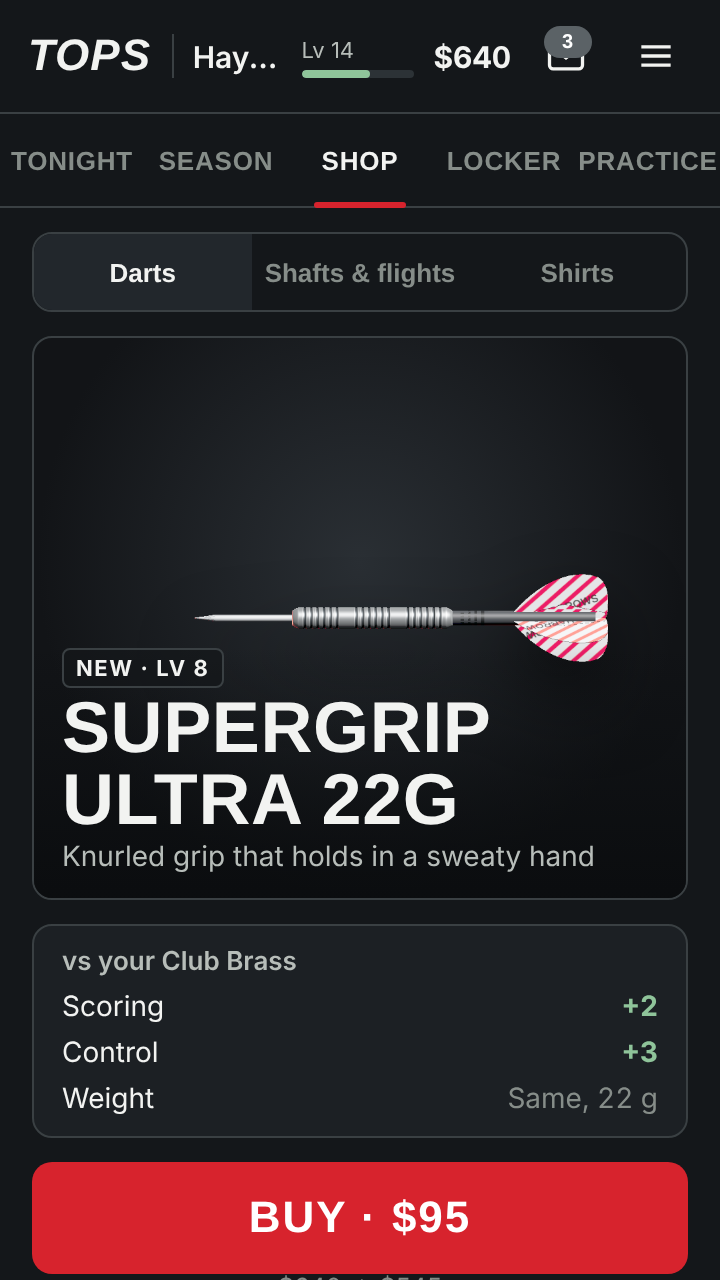
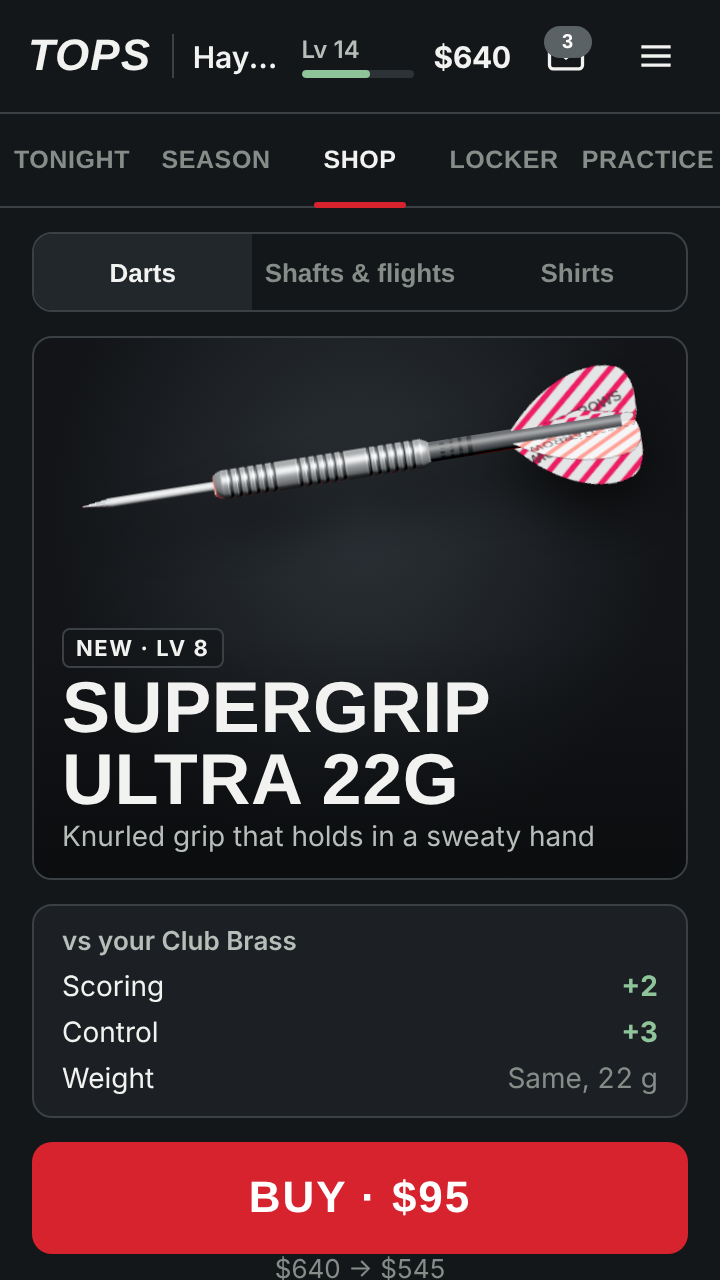
EXP-UX round 3: ChatGPT round-2 fixes (result tab rail hidden, result lockup, shop product crop + 4-up thumbs, cards hero 140 + chip fade, type floors)
Claude-Session: https://claude.ai/code/session_01WmQEKYuzjKWgLqY2q8YZP3

diff --git a/wip/ux/proto/index.html b/wip/ux/proto/index.html
@@ -1,0 +1,316 @@
+<title>TOPS Career Screens</title>
+<meta name="claude:viewport-fit-sides" content="cover">
+<link rel="preconnect" href="https://fonts.googleapis.com">
+<link rel="stylesheet" href="https://fonts.googleapis.com/css2?family=Barlow+Condensed:wght@600;700;800&family=Inter:wght@400;500;600;700&display=swap">
+<style>
+/* Layout: one phone (390 wide, 844 tall) centred on a dark desk; tier-2 calm frame: flat graphite panels, hairline borders,
+   real game renders inside panel frames, red only on the one primary button and the active main tab. Single dark look by design. */
+:root{
+  --desk:#0b0d0f; --bg:#14171a; --panel:#1c2024; --panel2:#22272c; --line:#3a4043; --ink:#f2f3f1; --ink2:#b7bdb9; --ink3:#868d89;
+  --red:#d7232d; --red2:#b81c25; --good:#8fc49a; --badge:#5b6266;
+  --display:"Barlow Condensed","Arial Narrow",Impact,sans-serif; --body:Inter,system-ui,-apple-system,"Segoe UI",Roboto,sans-serif;
+  color-scheme:dark;
+}
+html,body{height:100%}
+[hidden]{display:none!important}
+body{background:var(--desk);color:var(--ink);font-family:var(--body);font-size:14px;margin:0;
+  padding-left:max(16px,env(safe-area-inset-left,0px));padding-right:max(16px,env(safe-area-inset-right,0px));padding-block:20px;
+  display:flex;flex-direction:column;align-items:center;gap:14px}
+.note{max-width:390px;width:100%;color:var(--ink3);font-size:12px;line-height:1.5}
+.note b{color:var(--ink2);font-weight:600}
+.phone{position:relative;width:390px;max-width:100%;height:844px;background:var(--bg);border:1px solid #2a2f33;border-radius:28px;overflow:hidden;display:flex;flex-direction:column}
+@media (max-width:430px){body{padding:0}.phone{width:100%;height:100%;border:0;border-radius:0}.note{display:none}}
+/* header 56 */
+.hd{height:56px;flex:0 0 56px;display:flex;align-items:center;gap:10px;padding:0 14px;border-bottom:1px solid var(--line)}
+.wm{font-family:var(--display);font-weight:800;font-style:italic;font-size:22px;letter-spacing:.5px}
+.sep{width:1px;height:22px;background:var(--line)}
+.nm{font-weight:600;font-size:15px;white-space:nowrap;overflow:hidden;text-overflow:ellipsis;min-width:0}
+.lv{display:flex;flex-direction:column;gap:3px;flex:1;min-width:56px;cursor:pointer}
+.lv small{font-size:12px;font-weight:600;color:var(--ink2)}
+.bar{height:4px;background:#2c3236;border-radius:2px;overflow:hidden}.bar i{display:block;height:100%;background:var(--good);border-radius:2px}
+.bank{font-weight:700;font-size:15px;font-variant-numeric:tabular-nums}
+.icon{position:relative;width:44px;height:44px;display:grid;place-items:center;background:none;border:0;color:var(--ink);cursor:pointer;padding:0}
+.icon svg{width:22px;height:22px}
+.icon .b{position:absolute;top:7px;right:5px;min-width:16px;height:16px;border-radius:8px;background:var(--badge);color:#fff;font-size:10px;font-weight:700;display:grid;place-items:center;padding:0 4px}
+/* tabs 46 */
+.tabs{height:46px;flex:0 0 46px;display:flex;border-bottom:1px solid var(--line)}
+.tabs button{flex:1;background:none;border:0;color:var(--ink3);font-family:var(--display);font-weight:700;font-size:12.5px;letter-spacing:.3px;text-transform:uppercase;cursor:pointer;position:relative;padding:0;min-width:0}
+.tabs button[aria-selected="true"]{color:var(--ink)}
+.tabs button[aria-selected="true"]::after{content:"";position:absolute;left:18%;right:18%;bottom:-1px;height:3px;background:var(--red);border-radius:2px}
+.sub{height:38px;flex:0 0 38px;display:flex;margin:10px 16px 0;border:1px solid var(--line);border-radius:10px;overflow:hidden}
+.sub button{flex:1;background:none;border:0;color:var(--ink3);font-size:13px;font-weight:600;cursor:pointer}
+.sub button[aria-selected="true"]{background:var(--panel2);color:var(--ink)}
+/* body */
+.scr{flex:1;overflow-y:auto;overflow-x:hidden;display:flex;flex-direction:column;gap:12px;padding:12px 16px 24px}
+.scr[hidden]{display:none}
+.scr>*{flex-shrink:0}
+.panel{background:var(--panel);border:1px solid var(--line);border-radius:10px}
+.hero{position:relative;border-radius:10px;overflow:hidden;border:1px solid var(--line);background:#0e1012;flex:0 0 auto}
+.hero .img{position:absolute;inset:0;background-size:cover;background-position:center}
+.hero .shade{position:absolute;inset:0;background:linear-gradient(180deg,rgba(10,12,14,0) 35%,rgba(10,12,14,.92) 100%)}
+.hero .txt{position:absolute;left:14px;right:14px;bottom:12px;display:flex;flex-direction:column;gap:2px}
+.kick{font-size:11.5px;font-weight:600;letter-spacing:1px;text-transform:uppercase;color:var(--ink2)}
+.h1{font-family:var(--display);font-weight:800;font-size:36px;line-height:1;letter-spacing:.3px;text-transform:uppercase;text-wrap:balance}
+.lead{font-size:14px;color:var(--ink2)}
+.primary{height:56px;flex:0 0 56px;width:100%;border:0;border-radius:10px;background:var(--red);color:#fff;cursor:pointer;display:flex;flex-direction:column;align-items:center;justify-content:center;gap:1px}
+.primary:hover{background:var(--red2)}
+.primary b{font-family:var(--display);font-weight:800;font-size:22px;letter-spacing:1px;text-transform:uppercase;line-height:1}
+.primary small{font-size:12px;opacity:.9}
+.line{font-size:15px;font-weight:500;text-align:center;font-variant-numeric:tabular-nums}
+.meta{font-size:13px;color:var(--ink3);text-align:center;background:none;border:0;cursor:pointer;min-height:32px}
+.row2{display:grid;grid-template-columns:1fr 1fr;gap:10px}
+.tile{padding:12px;display:flex;flex-direction:column;gap:4px;min-height:96px;cursor:pointer;text-align:left;color:var(--ink);font:inherit}
+.tile .t{font-family:var(--display);font-weight:700;font-size:17px;text-transform:uppercase;letter-spacing:.4px}
+.tile .s{font-size:13px;color:var(--ink2)}
+.tile img{width:105px;height:30px;object-fit:contain;object-position:left center;align-self:flex-start;margin-top:auto}
+button.panel{color:var(--ink);font:inherit}
+:focus-visible{outline:2px solid #fff;outline-offset:2px}
+.link{background:none;border:0;color:var(--ink);text-decoration:underline;text-underline-offset:3px;font-size:14px;cursor:pointer;min-height:36px}
+/* opponent portrait inside Tonight hero */
+.opp{position:absolute;right:0;bottom:0;height:88%;aspect-ratio:4/5;background-size:contain;background-repeat:no-repeat;background-position:right bottom;max-width:100%}
+/* shop */
+.prod{display:grid;place-items:start center;padding-top:30px;background:radial-gradient(ellipse at 50% 32%,#2c3237 0%,#121417 68%)}
+.prod img{width:min(330px,88%);max-width:100%;transform:rotate(-9deg);filter:drop-shadow(0 16px 14px rgba(0,0,0,.65))}
+.badge{display:inline-block;font-size:11px;font-weight:700;letter-spacing:.8px;color:var(--ink);border:1px solid var(--line);border-radius:4px;padding:2px 6px;align-self:flex-start;background:rgba(20,23,26,.7)}
+.cmp{padding:10px 14px;display:flex;flex-direction:column;gap:6px}
+.cmp h3{margin:0;font-size:13px;color:var(--ink2);font-weight:600}
+.cmp div{display:flex;justify-content:space-between;font-size:14px;font-variant-numeric:tabular-nums}
+.up{color:var(--good);font-weight:700}.neutral{color:var(--ink3)}
+.strip{display:flex;align-items:center;gap:6px}
+.strip .arr{width:32px;height:78px;flex:0 0 32px}
+.thumbs{display:flex;gap:8px;flex:1;min-width:0;overflow-x:auto;scroll-snap-type:x mandatory;scrollbar-width:none}
+.thumbs::-webkit-scrollbar{display:none}
+.th{flex:0 0 calc((100% - 24px)/4);height:78px;scroll-snap-align:start;border:1px solid var(--line);border-radius:8px;background:var(--panel);display:grid;place-items:center;position:relative;cursor:pointer;padding:0;min-width:0}
+.th img{width:88%;height:44%;object-fit:contain;margin-bottom:16px}
+.th[aria-pressed="true"]{border-color:#fff}
+.th small{position:absolute;bottom:5px;left:0;right:0;font-size:12px;color:var(--ink2);text-align:center}
+.th.lock img{opacity:.35}
+.lockline{font-size:14px;color:var(--ink2);text-align:center;display:flex;flex-direction:column;gap:2px;align-items:center;min-height:56px;justify-content:center}
+.lockline b{color:var(--ink);font-weight:600}
+/* locker */
+.me{display:flex;align-items:flex-end}
+.me .fig{position:absolute;right:6px;bottom:0;height:100%;aspect-ratio:4/5;background-size:contain;background-repeat:no-repeat;background-position:right bottom}
+.setbar{padding:10px 12px;display:flex;align-items:center;gap:10px;font-size:13px}
+.setbar .bar{flex:1}
+.packs{padding:8px 8px 8px 14px;display:flex;align-items:center;gap:10px}
+.packs .t{font-family:var(--display);font-weight:800;font-size:20px;letter-spacing:.4px;flex:1}
+.packs .primary{width:112px;flex:0 0 112px;height:48px}
+.chips{display:flex;gap:8px;overflow-x:auto;padding-bottom:2px;scrollbar-width:none;margin-right:-16px;padding-right:24px;-webkit-mask-image:linear-gradient(90deg,#000 calc(100% - 40px),transparent);mask-image:linear-gradient(90deg,#000 calc(100% - 40px),transparent)}
+.chips::-webkit-scrollbar{display:none}
+.chips button{flex:0 0 auto;height:34px;padding:0 12px;border-radius:17px;border:1px solid var(--line);background:none;color:var(--ink2);font-size:13px;cursor:pointer}
+.chips button[aria-pressed="true"]{background:var(--panel2);color:var(--ink);border-color:#596066}
+.grid{display:grid;grid-template-columns:repeat(3,1fr);gap:8px}
+.card{aspect-ratio:2/3;border-radius:8px;overflow:hidden;border:1px solid var(--line);background:#101214;position:relative;max-width:100%}
+.card img{width:100%;height:100%;object-fit:cover;display:block}
+.card.out{display:grid;place-items:center;color:#4a5155;font-family:var(--display);font-weight:700;font-size:18px}
+.card .n{position:absolute;left:0;right:0;bottom:0;height:24px;line-height:24px;padding:0 8px;font-size:11px;font-weight:600;white-space:nowrap;overflow:hidden;text-overflow:ellipsis;background:rgba(12,14,16,.86);border-top:1px solid rgba(255,255,255,.06)}
+/* result */
+.res .vs{position:absolute;inset:0;display:grid;grid-template-columns:1fr auto 1fr;align-items:end}
+.res .p{height:88%;background-size:contain;background-repeat:no-repeat;background-position:bottom}
+.res .score{align-self:stretch;display:flex;flex-direction:column;justify-content:center;align-items:center;gap:4px;width:116px;text-align:center;background:radial-gradient(ellipse at 50% 50%,rgba(8,10,12,.85) 0%,rgba(8,10,12,.55) 55%,rgba(8,10,12,0) 80%);position:relative;z-index:1}
+.res .score b{font-family:var(--display);font-weight:800;font-size:54px;line-height:.9;display:block;font-variant-numeric:tabular-nums}
+.res .score small{font-size:18px;font-weight:600;letter-spacing:2px;color:var(--ink);text-transform:uppercase}
+.rw{display:flex;flex-direction:column;gap:8px}
+.rw h3{margin:2px 0 0;font-size:11.5px;letter-spacing:1px;color:var(--ink3);text-transform:uppercase;font-weight:600}
+.two{display:grid;grid-template-columns:1fr 1.6fr;gap:0}
+.two>div{padding:10px 14px;display:flex;flex-direction:column;gap:6px;justify-content:center;min-height:52px}
+.two>div+div{border-left:1px solid var(--line)}
+.cash{font-family:var(--display);font-weight:800;font-size:24px;color:var(--good)}
+.xp{display:flex;justify-content:space-between;font-size:13px;font-weight:600}
+.r{min-height:48px;padding:0 14px;display:flex;align-items:center;gap:10px;font-size:14px}
+.r img{height:22px}
+.r .sp{flex:1}
+.ghost{height:34px;padding:0 14px;border-radius:8px;border:1px solid #6b7276;background:none;color:var(--ink);font-weight:600;cursor:pointer}
+.pin{position:sticky;bottom:0;background:linear-gradient(transparent,var(--bg) 30%);padding-top:12px;margin-top:auto}
+/* toast */
+.toast{position:absolute;left:16px;right:16px;bottom:24px;background:var(--panel2);border:1px solid var(--line);border-radius:10px;padding:12px 14px;font-size:13px;opacity:0;transform:translateY(8px);transition:.2s;pointer-events:none}
+.toast.on{opacity:1;transform:none}
+@media (prefers-reduced-motion:reduce){.toast{transition:none}}
+.legend{max-width:390px;width:100%;display:flex;flex-wrap:wrap;gap:6px}
+.legend button{height:32px;padding:0 12px;border-radius:16px;border:1px solid #2a2f33;background:#15181b;color:var(--ink2);font-size:12px;cursor:pointer}
+@media (max-width:430px){.legend{display:none}}
+</style>
+
+<p class="note"><b>TOPS · career screens, round 2.</b> Clickable at real phone size (390 × 844). Every picture is rendered by the game itself: venue stills from our 3D rooms, players from our rigs, darts from the dart renderer. Tap the tabs, Walk on, Buy, Open and Continue.</p>
+<div class="legend" aria-label="Prototype states">
+  <button type="button" data-state="first">First match</button>
+  <button type="button" data-state="broke">Can't afford entry</button>
+  <button type="button" data-state="normal">Normal</button>
+</div>
+
+<div class="phone" id="phone">
+  <header class="hd">
+    <span class="wm">TOPS</span><span class="sep"></span>
+    <span class="nm">Hayden</span>
+    <div class="lv" id="lvBtn" role="button" tabindex="0" aria-label="Level 14, open Locker"><small id="lvTxt">Lv 14</small><div class="bar"><i id="lvBar" style="width:62%"></i></div></div>
+    <span class="bank" id="bank">$640</span>
+    <button class="icon" type="button" id="msgBtn" aria-label="3 new messages"><svg viewBox="0 0 24 24" fill="none" stroke="currentColor" stroke-width="1.8"><rect x="3" y="5" width="18" height="14" rx="2"/><path d="m3.5 6.5 8.5 6.5 8.5-6.5"/></svg><span class="b" id="msgN">3</span></button>
+    <button class="icon" type="button" aria-label="Menu"><svg viewBox="0 0 24 24" fill="none" stroke="currentColor" stroke-width="1.8"><path d="M4 7h16M4 12h16M4 17h16"/></svg></button>
+  </header>
+  <nav class="tabs" id="tabs" role="tablist">
+    <button role="tab" data-tab="tonight" aria-selected="true">Tonight</button>
+    <button role="tab" data-tab="season" aria-selected="false">Season</button>
+    <button role="tab" data-tab="shop" aria-selected="false">Shop</button>
+    <button role="tab" data-tab="locker" aria-selected="false">Locker</button>
+    <button role="tab" data-tab="practice" aria-selected="false">Practice</button>
+  </nav>
+
+  <!-- TONIGHT -->
+  <section class="scr" data-scr="tonight">
+    <div class="hero" style="height:265px">
+      <div class="img" style="background-image:url(img/venue_club.jpg)"></div>
+      <div class="opp" style="background-image:url(img/mal_hero.png)"></div>
+      <div class="shade"></div>
+      <div class="txt"><span class="kick" id="tKick">Club singles · Week 5 of 8</span><span class="h1">vs Big Mal</span><span class="lead" id="tStake">Win: a place in the team</span></div>
+    </div>
+    <div class="line" id="tForm">You 47 (last 10) · Him 42 · Best of 3</div>
+    <button class="primary" type="button" id="walkOn"><b>Walk on</b><small id="tEntry">Entry $40</small></button>
+    <button class="meta" type="button" data-go="season" id="tSeason">Week 5 of 8 · 3rd · 2 pts off 2nd ›</button>
+    <div class="row2" id="tTiles">
+      <button class="panel tile" type="button" id="moneyTile"><span class="t">Money match</span><span class="s">Back room · $100</span></button>
+      <button class="panel tile" type="button" data-go="shop"><span class="t">Next dart</span><span class="s">Razor Edge · Lv 15</span><img src="img/dart_razor_t.png" alt=""></button>
+    </div>
+    <div class="meta" id="tGoal" style="margin-top:auto">Goal: average 61+ → $40</div>
+  </section>
+
+  <!-- SEASON (out of this round's scope: a stub so the tab answers) -->
+  <section class="scr" data-scr="season" hidden>
+    <div class="panel" style="padding:16px;display:flex;flex-direction:column;gap:8px">
+      <span class="kick">Season · not in this round</span>
+      <span class="h1" style="font-size:28px">3rd · 2 pts off 2nd</span>
+      <span class="lead">Top two go up. The table, the road to the Palace and the trophy cabinet live here in round 3.</span>
+    </div>
+  </section>
+
+  <!-- SHOP -->
+  <section class="scr" data-scr="shop" hidden>
+    <div class="sub" role="tablist" style="margin:0"><button aria-selected="true">Darts</button><button aria-selected="false">Shafts &amp; flights</button><button aria-selected="false">Shirts</button></div>
+    <div class="hero prod" style="height:240px">
+      <img id="sImg" src="img/dart_razor_t.png" alt="Razor Edge dart">
+      <div class="shade" style="background:linear-gradient(180deg,transparent 55%,rgba(10,12,14,.9))"></div>
+      <div class="txt"><span class="badge" id="sBadge">NEW · LV 15</span><span class="h1" id="sName">Razor Edge 24g</span><span class="lead" id="sLine">Sharp razor grip, 85% tungsten</span></div>
+    </div>
+    <div class="panel cmp" id="sCmp"></div>
+    <div id="sAct"></div>
+    <div class="strip">
+      <button class="icon arr" type="button" id="sPrev" aria-label="Previous dart"><svg viewBox="0 0 24 24" fill="none" stroke="currentColor" stroke-width="2"><path d="m15 5-7 7 7 7"/></svg></button>
+      <div class="thumbs" id="sThumbs"></div>
+      <button class="icon arr" type="button" id="sNext" aria-label="Next dart"><svg viewBox="0 0 24 24" fill="none" stroke="currentColor" stroke-width="2"><path d="m9 5 7 7-7 7"/></svg></button>
+    </div>
+  </section>
+
+  <!-- LOCKER / CARDS -->
+  <section class="scr" data-scr="locker" hidden>
+    <div class="sub" role="tablist" style="margin:0"><button aria-selected="false">Loadout</button><button aria-selected="true">Cards</button><button aria-selected="false">Stats</button><button aria-selected="false">Trophies</button></div>
+    <div class="hero me" style="height:140px">
+      <div class="img" style="background-image:url(img/venue_regional.jpg);opacity:.45"></div>
+      <div class="fig" style="background-image:url(img/me_hero.png)"></div>
+      <div class="shade" style="background:linear-gradient(90deg,rgba(10,12,14,.85) 0%,rgba(10,12,14,.2) 70%)"></div>
+      <div class="txt" style="right:45%"><span class="h1" style="font-size:30px">Hayden</span><span class="lead">The Fill-in · Lv 14</span></div>
+    </div>
+    <div class="panel packs" id="packRow"><span class="t" id="packTxt">3 packs waiting</span><button class="primary" type="button" id="openPack"><b>Open</b></button></div>
+    <div class="panel setbar"><span>Closest set: Kiwi Pub Life</span><div class="bar"><i style="width:78%"></i></div><span style="font-variant-numeric:tabular-nums">7/9</span></div>
+    <div class="chips" role="group" aria-label="Filter cards"><button aria-pressed="true">All · 37/142</button><button>Regulars</button><button>Venues</button><button>Moments</button><button>Disasters</button><button>Kit</button><button>House rules</button></div>
+    <div class="grid" id="grid"></div>
+  </section>
+
+  <!-- PRACTICE (stub) -->
+  <section class="scr" data-scr="practice" hidden>
+    <div class="panel" style="padding:16px;display:flex;flex-direction:column;gap:8px">
+      <span class="kick">Practice · not in this round</span>
+      <span class="h1" style="font-size:28px">Round the clock doubles</span>
+      <span class="lead">Your doubles are 14 %. Free to play, a little XP every session (capped).</span>
+    </div>
+  </section>
+
+  <!-- RESULT (no tab rail) -->
+  <section class="scr res" data-scr="result" hidden>
+    <div class="hero" style="height:250px">
+      <div class="img" style="background-image:url(img/venue_club.jpg);opacity:.38"></div>
+      <div class="vs"><div class="p" style="background-image:url(img/me_hero.png)"></div><div class="score"><small id="rWho">Won</small><b id="rScore">2–1</b></div><div class="p" id="rThem" style="background-image:url(img/mal_hero.png);transform:scaleX(-1);filter:brightness(.5) saturate(.6)"></div></div>
+    </div>
+    <div class="line" id="rLine">You 51 · Him 44 · Checkout 38%</div>
+    <div class="rw">
+      <h3>Rewards</h3>
+      <div class="panel two"><div><span class="cash" id="rCash">+$55</span></div><div><div class="xp"><span id="rXp">+240 XP</span><span>Lv 14</span></div><div class="bar"><i style="width:78%"></i></div></div></div>
+      <div class="panel r"><img src="img/dart_razor_t.png" alt=""><span class="sp" id="rWant">Razor Edge: $45 to go</span></div>
+      <div class="panel r"><span class="sp">🂠 1 card pack</span><button class="ghost" type="button" id="rOpen">Open</button></div>
+      <div class="panel r"><span class="sp" id="rSeason">Now 2nd · top two go up</span></div>
+    </div>
+    <button class="meta" type="button" id="rMsgs">✉ 2 new · See all stats ›</button>
+    <div class="pin"><button class="primary" type="button" id="cont"><b>Continue</b></button></div>
+  </section>
+
+  <div class="toast" id="toast" role="status"></div>
+</div>
+
+<script>
+const $=s=>document.querySelector(s),$$=s=>[...document.querySelectorAll(s)];
+const st={bank:640,owned:{assassin:1},sel:'supergrip',packs:3,first:false,broke:false};
+const DARTS=[
+ {id:'assassin',n:'Club Brass 22g',line:'Your starter set. Brass, 22 g.',lv:1,price:0,img:'dart_assassin_t.png',sc:0,co:0,w:22},
+ {id:'supergrip',n:'Supergrip Ultra 22g',line:'Knurled grip that holds in a sweaty hand',lv:8,price:95,img:'dart_supergrip_t.png',sc:2,co:3,w:22,isNew:1},
+ {id:'razor',n:'Razor Edge 24g',line:'Sharp razor grip, 85% tungsten',lv:15,price:120,img:'dart_razor_t.png',sc:4,co:5,w:24},
+ {id:'vapor8',n:'Vapor8 21g',line:'Slim, light, quick through the air',lv:18,price:150,img:'dart_vapor8_t.png',sc:5,co:3,w:21},
+ {id:'zen',n:'Zen Jutsu 23g',line:'Ringed grip, settled flight',lv:25,price:170,img:'dart_zen_t.png',sc:7,co:7,w:23},
+ {id:'asp',n:'Asp G2 24g',line:'Front-weighted, built for treble 20',lv:33,price:270,img:'dart_asp_t.png',sc:9,co:8,w:24}];
+const LV=14;
+function toast(t){const e=$('#toast');e.textContent=t;e.classList.add('on');clearTimeout(toast.t);toast.t=setTimeout(()=>e.classList.remove('on'),1800);}
+function money(n){return '$'+n.toLocaleString();}
+function show(tab){
+  const res=tab==='result';$('#tabs').hidden=res;
+  $$('.scr').forEach(s=>s.hidden=s.dataset.scr!==tab);
+  $$('#tabs button').forEach(b=>b.setAttribute('aria-selected',b.dataset.tab===tab));
+  const s=$('.scr[data-scr="'+tab+'"]');if(s)s.scrollTop=0;
+}
+$$('#tabs button').forEach(b=>b.onclick=()=>show(b.dataset.tab));
+$$('[data-go]').forEach(b=>b.onclick=()=>show(b.dataset.go));
+$('#lvBtn').onclick=()=>show('locker');
+$('#msgBtn').onclick=()=>{$('#msgN').hidden=true;$('#msgBtn').setAttribute('aria-label','Messages');toast('Messages: Big Mal says see you on the oche. Club secretary: subs due Friday.');};
+$('#moneyTile').onclick=()=>toast('Money match: best of 1 in the back room, $100 to the winner.');
+// Tonight states
+function renderTonight(){
+  $('#tForm').textContent=st.first?'Your first match · Him 42 · Best of 3':'You 47 (last 10) · Him 42 · Best of 3';
+  $('#tKick').textContent=st.first?'Club singles · Week 1 of 8':'Club singles · Week 5 of 8';
+  $('#tStake').textContent=st.first?'Your first night at the Waitakere Club':'Win: a place in the team';
+  $('#tTiles').hidden=st.first;$('#tGoal').hidden=st.first;$('#tSeason').hidden=st.first;
+  $('#tEntry').textContent=st.broke?'Entry $40 · you have $25':'Entry $40';
+  $('#walkOn').disabled=false;
+  $('#bank').textContent=money(st.broke?25:st.bank);
+  $('#moneyTile .s').textContent=st.broke?'Back room · $100 · play this first':'Back room · $100';
+}
+$('#walkOn').onclick=()=>{if(st.broke){toast('Short of the $40 entry. Take the money match first, or the club covers it this once.');return;}show('result');};
+$$('.legend button').forEach(b=>b.onclick=()=>{st.first=b.dataset.state==='first';st.broke=b.dataset.state==='broke';renderTonight();show('tonight');toast(b.textContent+' state');});
+// Shop
+function renderShop(){
+  const d=DARTS.find(x=>x.id===st.sel),owned=!!st.owned[d.id],locked=d.lv>LV,mine=DARTS.find(x=>x.id==='assassin');
+  $('#sImg').src='img/'+d.img;$('#sImg').alt=d.n+' dart';$('#sName').textContent=d.n;$('#sLine').textContent=d.line;
+  $('#sBadge').textContent=owned?'OWNED':locked?'LOCKED · LV '+d.lv:(d.isNew?'NEW · LV '+d.lv:'LV '+d.lv);
+  const rows=owned&&d.id==='assassin'?[['Your current dart','','neutral']]:[['Scoring','+'+(d.sc-mine.sc),'up'],['Control','+'+(d.co-mine.co),'up']].concat(d.w===mine.w?[['Weight','Same, '+d.w+' g','neutral']]:[[d.w>mine.w?'Heavier':'Lighter',d.w+' g vs '+mine.w+' g','neutral']]);
+  $('#sCmp').innerHTML='<h3>vs your Club Brass</h3>'+rows.map(r=>`<div><span>${r[0]}</span><span class="${r[2]}">${r[1]}</span></div>`).join('');
+  let a='';
+  if(owned)a=`<button class="primary" type="button" id="sEquip"><b>Equip</b></button>`;
+  else if(locked)a=`<div class="lockline"><b>Unlocks at level ${d.lv} · ${money(d.price)}</b><span>You're level ${LV}</span><button class="link" type="button" data-go2="tonight">Play to reach it →</button></div>`;
+  else a=`<button class="primary" type="button" id="sBuy"><b>Buy · ${money(d.price)}</b></button><div class="meta" style="min-height:20px">${money(st.bank)} → ${money(st.bank-d.price)}</div><div style="text-align:center"><button class="link" type="button" id="sTry">Try it in practice</button></div>`;
+  $('#sAct').innerHTML=a;
+  $('#sThumbs').innerHTML=DARTS.map(x=>`<button class="th ${x.lv>LV&&!st.owned[x.id]?'lock':''}" type="button" data-id="${x.id}" aria-pressed="${x.id===st.sel}" aria-label="${x.n}"><img src="img/${x.img}" alt=""><small>${st.owned[x.id]?'✓ Owned':x.lv>LV?'🔒 Lv '+x.lv:money(x.price)}</small></button>`).join('');{const t=$('#sThumbs'),q=t.querySelector('[aria-pressed="true"]');if(q)t.scrollLeft=Math.max(0,q.offsetLeft-t.offsetLeft-(t.clientWidth-q.clientWidth)/2);}
+  $$('#sThumbs .th').forEach(b=>b.onclick=()=>{st.sel=b.dataset.id;renderShop();});
+  const buy=$('#sBuy');if(buy)buy.onclick=()=>{st.owned[d.id]=1;st.bank-=d.price;$('#bank').textContent=money(st.bank);toast('Bought '+d.n+'. Equipped for your next match.');renderShop();};
+  const tr=$('#sTry');if(tr)tr.onclick=()=>toast('Free practice session with '+d.n+'. No XP or money from it.');
+  const eq=$('#sEquip');if(eq)eq.onclick=()=>toast(d.n+' equipped.');
+  $$('[data-go2]').forEach(b=>b.onclick=()=>show(b.dataset.go2));
+}
+const idx=()=>DARTS.findIndex(x=>x.id===st.sel);
+$('#sPrev').onclick=()=>{st.sel=DARTS[(idx()+DARTS.length-1)%DARTS.length].id;renderShop();};
+$('#sNext').onclick=()=>{st.sel=DARTS[(idx()+1)%DARTS.length].id;renderShop();};
+// Locker cards
+const CARDS=[['chalk','The Chalk'],['db_top','Double Top'],['bar','The Bar'],['db_bull','Bullseye'],['case','The Case'],['barrel','The Barrel'],['flights','Flights'],[null,'#041'],[null,'#042']];
+function renderGrid(){$('#grid').innerHTML=CARDS.map(c=>c[0]?`<div class="card"><img src="img/card_${c[0]}.jpg" alt="${c[1]}"><span class="n">${c[1]}</span></div>`:`<div class="card out" aria-label="Not collected yet">${c[1]}</div>`).join('');}
+function renderPacks(){const n=st.packs;$('#packTxt').textContent=n?n+(n===1?' pack waiting':' packs waiting'):'Win matches to earn packs';$('#openPack').hidden=!n;}
+$('#openPack').onclick=()=>{st.packs--;const c=CARDS.find(x=>!x[0]);if(c){c[0]='kw_fishchips';c[1]='Fish & Chips';}renderGrid();renderPacks();toast('New card: Fish & Chips (Kiwi Pub Life 8/9)');};
+// Result
+$('#rOpen').onclick=()=>{toast('Pack opened: The Chalk (duplicate, +10 XP)');$('#rOpen').disabled=true;$('#rOpen').textContent='Opened';};
+$('#rMsgs').onclick=()=>toast('Full stats: 3 tons, best visit 140, checkout 3 of 8.');
+$('#cont').onclick=()=>{show('tonight');toast('Next fixture: vs Shazza, Week 6 of 8');};
+renderTonight();renderShop();renderGrid();renderPacks();
+</script>
